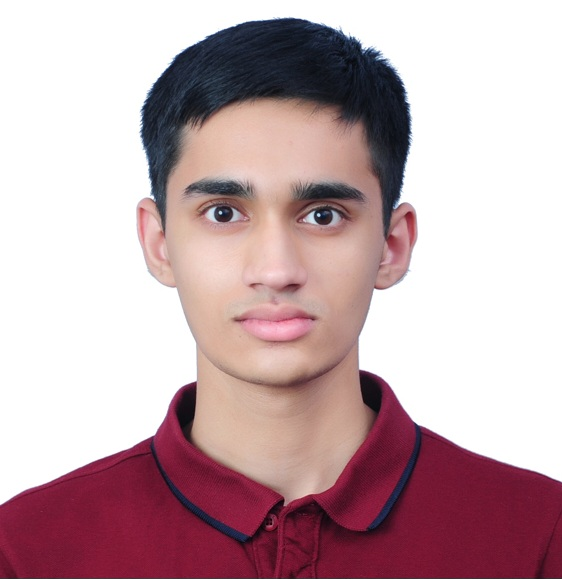
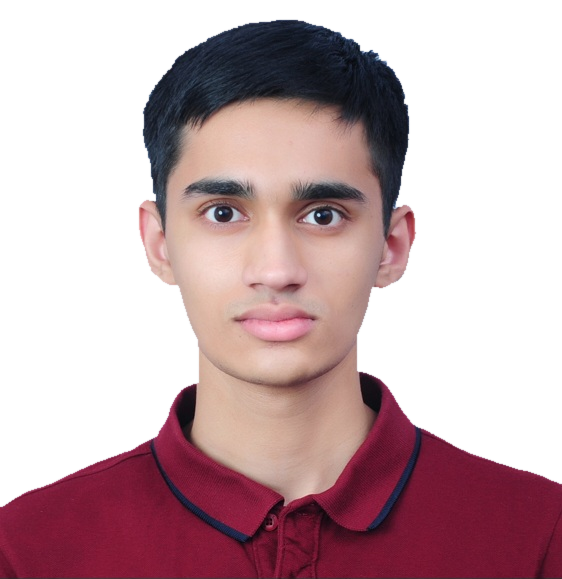
Align profile portraits and blend background

diff --git a/people.html b/people.html
@@ -8,15 +8,15 @@
 <header class="hero"><canvas data-fx="net" aria-hidden="true"></canvas><div class="hin"><h1>People.</h1>
 <p class="lead">Three students, working with collaborators at IIT Palakkad and the University of Amsterdam.</p></div></header>
 <main>
-<div class="row profile-row"><div class="profile-portrait featured"><img src="assets/milind-portrait.png" alt="Milind Sahu at a rocket exhibit" loading="eager"></div><div>
+<div class="row profile-row"><div class="profile-portrait"><img src="assets/milind-portrait.png" alt="Milind Sahu at a rocket exhibit" loading="eager"></div><div>
 <h3>Milind Sahu</h3><p class="role">Founder</p>
 <p>Founded Axiom Labs in 2025. Research fellow at IIT Palakkad on Gaussian process regression for distribution-valued inputs, and collaborator at the University of Amsterdam on renewable capture-price forecasting. Creator of Spectre and first author on both preprints.</p>
 <p class="m"><a href="https://github.com/itsmilindsahu">GitHub</a> &nbsp;&middot;&nbsp; <a href="https://linkedin.com/in/itsmilindsahu">LinkedIn</a> &nbsp;&middot;&nbsp; <a href="https://itsmilindsahu.github.io">Personal site</a></p></div></div>
-<div class="row profile-row compact-row"><div class="profile-portrait small"><img src="assets/paarth-portrait.png" alt="Portrait of Paarth Potnis" loading="lazy"></div><div>
+<div class="row profile-row compact-row"><div class="profile-portrait"><img src="assets/paarth-portrait.png" alt="Portrait of Paarth Potnis on a dark background" loading="lazy"></div><div>
 <h3>Paarth Potnis</h3><p class="role">Chemistry lead, Spectre</p>
 <p>Designs the SMARTS patterns that auto-label spectra, curates the infrared correlation table behind the rule engine, and checks model output against real functional-group assignments. Interested in organic synthesis, catalysis and enzyme-catalysed green chemistry.</p></div></div>
 <h2>Collaborators</h2>
-<div class="row profile-row compact-row"><div class="profile-portrait small"><img src="assets/darun-portrait.png" alt="Portrait of Darun A." loading="lazy"></div><div>
+<div class="row profile-row compact-row"><div class="profile-portrait"><img src="assets/darun-portrait.png" alt="Portrait of Darun A." loading="lazy"></div><div>
 <h3>Darun A.</h3><p class="role">Collaborator</p>
 <p>Research assistant at the Madras School of Economics. Co-author on the volatility paper and the energy disaggregation paper. Builds market-risk and portfolio tools, and an NLP tracker that links news headlines to stock tickers.</p></div></div>
 <div class="row"><div><h3>Latheesh Roy</h3><p class="role">Co-author</p></div><div><p>Co-author on the arbitrage-free volatility paper.</p></div></div>

diff --git a/style.css b/style.css
@@ -20,9 +20,7 @@ p{color:#bfc4cf;margin:0 0 16px}
 .m{color:var(--mute);font-size:14px}
 .row{display:grid;grid-template-columns:minmax(0,190px) minmax(0,1fr);gap:8px clamp(20px,5vw,40px);padding:clamp(22px,4vw,30px) 0;border-top:1px solid #ffffff14}
 .profile-row{grid-template-columns:minmax(0,220px) minmax(0,1fr);align-items:center;gap:clamp(18px,3vw,34px)}
-.profile-portrait{position:relative;display:flex;align-items:center;justify-content:center;width:100%;max-width:220px;aspect-ratio:1/1.08;background:#0d111a;border:1px solid rgba(255,255,255,.12);border-radius:18px;overflow:hidden}
-.profile-portrait.featured{aspect-ratio:1/1.12}
-.profile-portrait.small{max-width:180px;aspect-ratio:1/1.12}
+.profile-portrait{position:relative;display:flex;align-items:center;justify-content:center;width:100%;max-width:220px;aspect-ratio:3/4;background:#0d111a;border:1px solid rgba(255,255,255,.12);border-radius:18px;overflow:hidden}
 .profile-portrait::before{content:"";position:absolute;inset:0;border:1px solid rgba(255,255,255,.06);pointer-events:none}
 .profile-portrait img{display:block;width:100%;height:100%;object-fit:cover;filter:none;transform:none}
 .compact-row{padding-top:18px;padding-bottom:18px}
